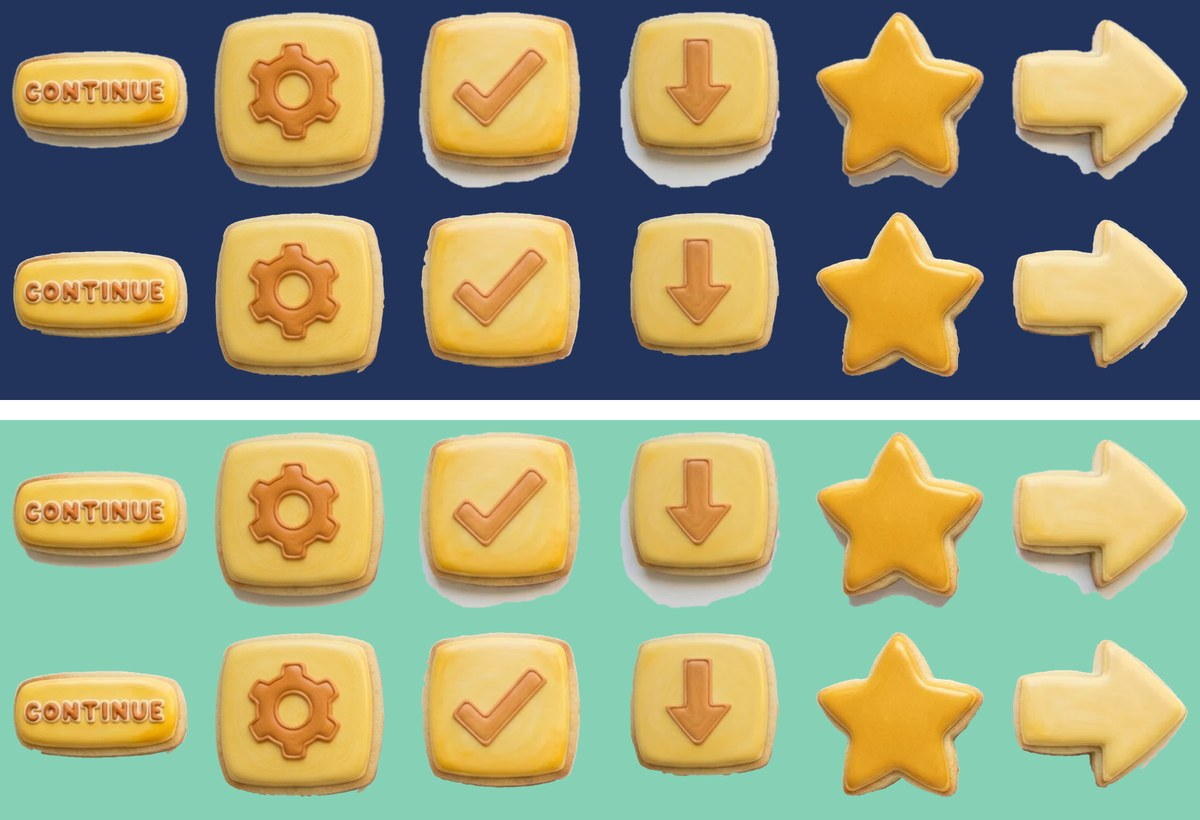
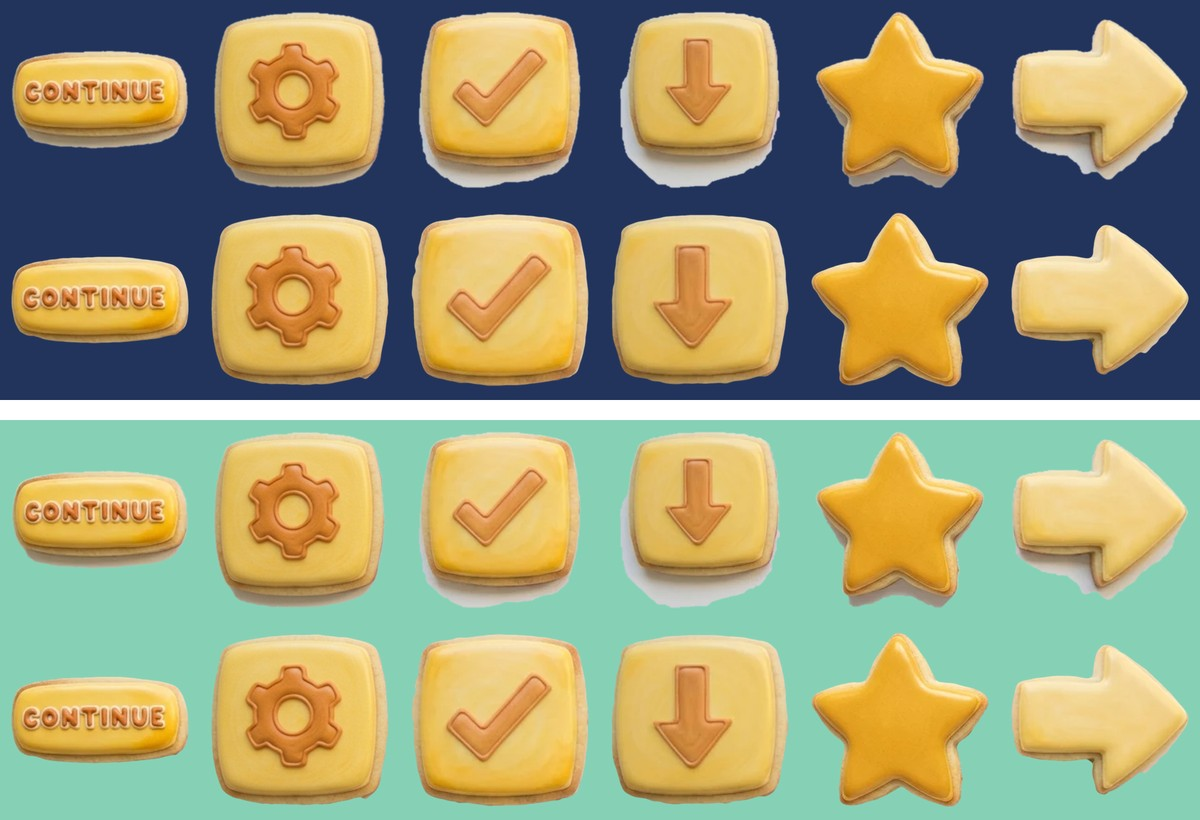
Blender base: the bottom line's lower edge smoothed (owner: 'make the bottom line smoother'); report: cookie edges third pass (waits for the tick), China ads answer
Only the dark line's lower edge changed (a hard staircase in the drawing, now the same edge smoothed, soft rim);
Store/redesign/blender_2026-11-18/smooth_base.py, the picture before in body_before/. Glow repainted, gap 0.
Cookie edges: Store/cookies_2026-11-17/clean_edges_v3.py -> cut_ui_v3 (smooth outline at 3x, nearest-cookie colours
inside it), not installed.

Changed region(s): [[0.0, 0.7622, 1.0, 1.0], [0.0, 0.2439, 1.0, 0.4878], [0.2158, 0.2439, 0.2775, 0.2744]]

diff --git a/Docs/tools/report_page/index.html b/Docs/tools/report_page/index.html
@@ -74,9 +74,10 @@ h3 small{font-weight:600;color:var(--soft);font-size:13px;margin-left:6px}
 <h2 id="next"><span class="n">1</span>Next</h2>
 <div class="grid">
 <div class="who p1"><h3>You</h3>
-<p><b>Cookie buttons' bottom layer</b> (Current): before and after; tick to apply.</p>
-<p><b>Your test run's other fixes</b> (Current): receipt, NEW labels, two Ready buttons, the hint only in the tutorial, the kitchen hint. Tick for a test build.</p>
-<p><b>Test build 2026.11.18 (1)</b> is on TestFlight: 60 pictures a second (smoother menu), the blender base. It was made before your test-run list.</p>
+<p><b>Cookie buttons</b> (Current): cleaned again with smooth edges; tick to apply.</p>
+<p><b>China ads</b> (Q&amp;A): very likely blocked; a tick to switch purchases off for China only.</p>
+<p><b>Blender's bottom line</b> (Current): smoother.</p>
+<p><b>Your test run's fixes</b> (Current): tick for a test build.</p>
 <p><b>Kitchen glows</b> (Current): pick a "do this now" look.</p>
 <p><b>Players</b> (Analysis): nobody has reached day 3; a tick to try it without the ad before day 3.</p>
 </div>
@@ -84,6 +85,27 @@ h3 small{font-weight:600;color:var(--soft);font-size:13px;margin-left:6px}
 </div>
 
 <h2 id="qa"><span class="n">2</span>Q&amp;A</h2>
+<div class="q"><h3>Does China block the ads too? (18 November)</h3>
+<p style="margin:6px 0"><b>Short answer:</b> very likely yes. Our ads do not seem to reach players in mainland China at all.</p>
+<ul>
+<li><b>Our own numbers:</b> 3 players in China finished 6 days and saw 0 ads. Everywhere else players see about one ad per finished day (Philippines 14 ads for 12 days, US 12 for 19, Hong Kong 4 for 1). Three players is few, but it matches your friend.</li>
+<li><b>Why:</b> a developer in China posted a phone log where the phone cannot connect to Unity's ad server at all. Unity's own pages do not say either way, so I cannot call it certain.</li>
+<li><b>What a player there sees:</b> the game plays normally, with no ads between days. "Get 50 coins" and the Daily Treats ad stay grey, because no ad ever loads. Nothing breaks.</li>
+<li><b>Fixing it</b> would need a Chinese ad network and a Chinese company. Not worth it for us now.</li>
+</ul>
+<p style="margin:10px 0 4px"><b>Switching purchases off for China, safely:</b></p>
+<ul>
+<li>Each purchase (Remove Ads, 15 Stars) has its own list of countries in App Store Connect. Taking "China mainland" off that list changes nothing in any other country.</li>
+<li>No new build is needed, and it can be switched back on any time.</li>
+<li>It touches only the two purchases, not the game: the game stays on the China store, free.</li>
+<li>One caution: 15 Stars is in Apple's review right now. I would change it only after that review ends, so the review is not disturbed. Remove Ads can be changed now.</li>
+</ul>
+<ul class="checks">
+<li><label><input type="checkbox" data-id="qa.chinaads.iapoff"> Yes, switch both purchases off for China mainland only</label></li>
+<li><label><input type="checkbox" data-id="qa.chinaads.hide"> Also hide the grey ad buttons where no ad can load</label></li>
+<li><label><input type="checkbox" data-id="qa.chinaads.later"> Later</label></li>
+</ul>
+</div>
 <div class="q"><h3>Can we release a version just for China that does not break its rules? (17 November)</h3>
 <p style="margin:6px 0"><b>Short answer:</b> Apple allows one build per app for all countries, so not a separate build. But most of this needs no new build at all.</p>
 <ol>
@@ -102,17 +124,32 @@ h3 small{font-weight:600;color:var(--soft);font-size:13px;margin-left:6px}
 </div>
 <h2 id="current"><span class="n">3</span>Current</h2>
 <div class="card">
-<p style="margin-top:0"><b>Cookie buttons: the grey-white layer at the bottom, before and after, 18 November.</b> Not applied yet, as you asked.</p>
-<figure><img src="cookie_bottom.jpg" style="max-height:520px" alt="Six cookie buttons twice: with pale grey-white patches and a soft strip under each cookie, and cleaned so each cookie ends at its own baked edge"><figcaption>On dark blue and on the menu's mint. Upper row of each pair: your test build. Lower row: after.</figcaption></figure>
+<p style="margin-top:0"><b>Cookie buttons: cleaned again, smoothly, 18 November.</b> Not applied yet; tick and I put them in.</p>
+<figure><img src="cookie_bottom.jpg" style="max-height:520px" alt="Six cookie buttons twice: with pale patches and strips under each, and with a smooth clean outline"><figcaption>On dark blue and on the menu's mint. Upper row of each pair: your test build. Lower row: the new clean.</figcaption></figure>
+<figure><img src="cookie_edge_zoom.jpg" style="max-height:330px" alt="Continue, gear and star cookies enlarged: smooth outlines with no pale rim or leftover"><figcaption>Close up.</figcaption></figure>
+<figure><img src="cookie_edge_all.jpg" style="max-height:600px" alt="Every cookie button, star, coin, gift, arrow and lock on dark blue, each with a clean smooth edge"><figcaption>All of them.</figcaption></figure>
 <ul>
-<li>The layer is the photo's pale backdrop and soft shadow that came along when the cookies were cut out.</li>
-<li>After: every cookie ends at its own baked edge. The icing and the cookie itself are untouched.</li>
-<li>It is the same for all 25 cookie pictures (buttons, stars, coin, gift, arrows, lock).</li>
+<li>A different method this time: instead of removing leftover pixels one by one, each cookie gets one smooth outline drawn just inside its own edge. So the edge is a clean curve and nothing pale is left round it.</li>
+<li>Gone: the grey-white backdrop, the soft shadow, and the dark line where the cookie touched the table.</li>
+<li>I did these here, not with Gemini: Gemini would repaint the cookies, and they would no longer be the ones you picked.</li>
 </ul>
 <ul class="checks">
-<li><label><input type="checkbox" data-id="cur.cbottom.apply"> Yes, apply it</label></li>
-<li><label><input type="checkbox" data-id="cur.cbottom.more"> Still see a layer (I will say where)</label></li>
-<li><label><input type="checkbox" data-id="cur.cbottom.shadow"> Too bare, give them a soft drawn shadow</label></li>
+<li><label><input type="checkbox" data-id="cur.cedge3.apply"> Yes, apply it</label></li>
+<li><label><input type="checkbox" data-id="cur.cedge3.more"> Still not clean (I will say where)</label></li>
+<li><label><input type="checkbox" data-id="cur.cedge3.gemini"> Try Gemini anyway</label></li>
+</ul>
+</div>
+
+<div class="card">
+<p style="margin-top:0"><b>Blender: the bottom line, smoother, 18 November.</b> In the project, in no build yet.</p>
+<figure><img src="blender_line.jpg" style="max-height:330px" alt="The dark line under the blender base: before with small steps and a bump on its lower edge, after as one smooth curve"><figcaption>The base's bottom right, enlarged. Above: before. Below: now.</figcaption></figure>
+<ul>
+<li>The lower edge of the dark line was drawn in small hard steps. It is now the same edge as one smooth, soft curve.</li>
+<li>Only that edge changed; the line's upper side and everything above it are your pixels. The glow is repainted to fit.</li>
+</ul>
+<ul class="checks">
+<li><label><input type="checkbox" data-id="cur.bline.good"> Good</label></li>
+<li><label><input type="checkbox" data-id="cur.bline.more"> Smoother still (I will say where)</label></li>
 </ul>
 </div>
 
